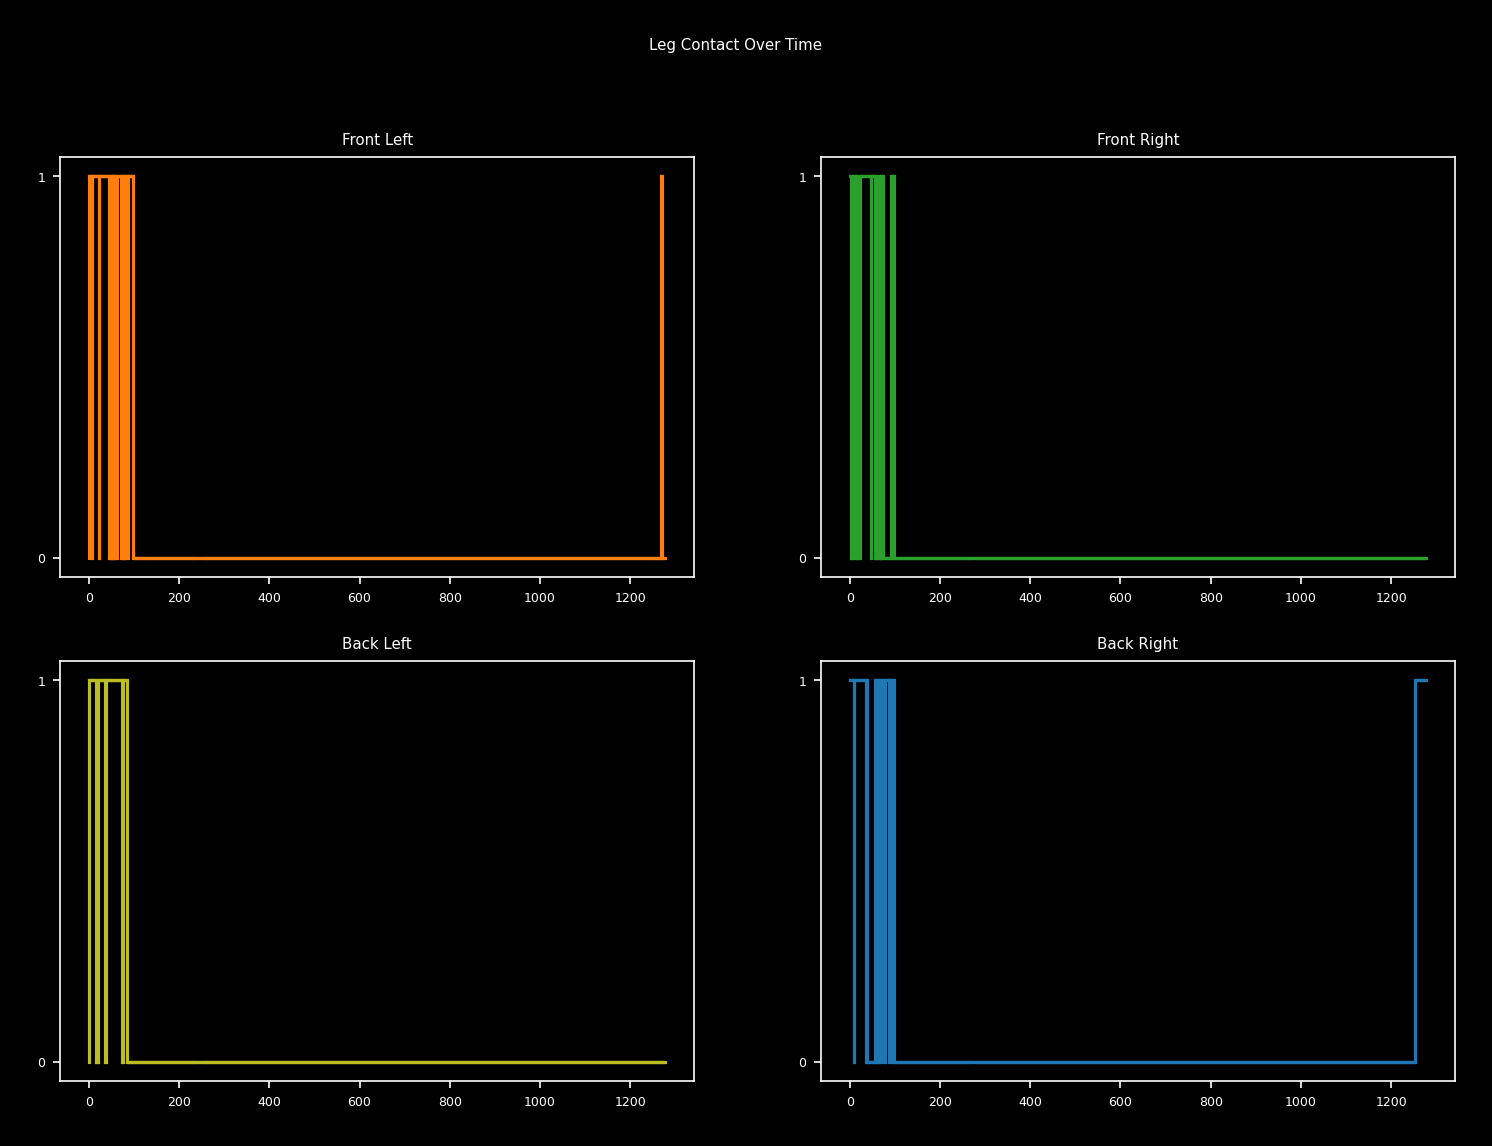
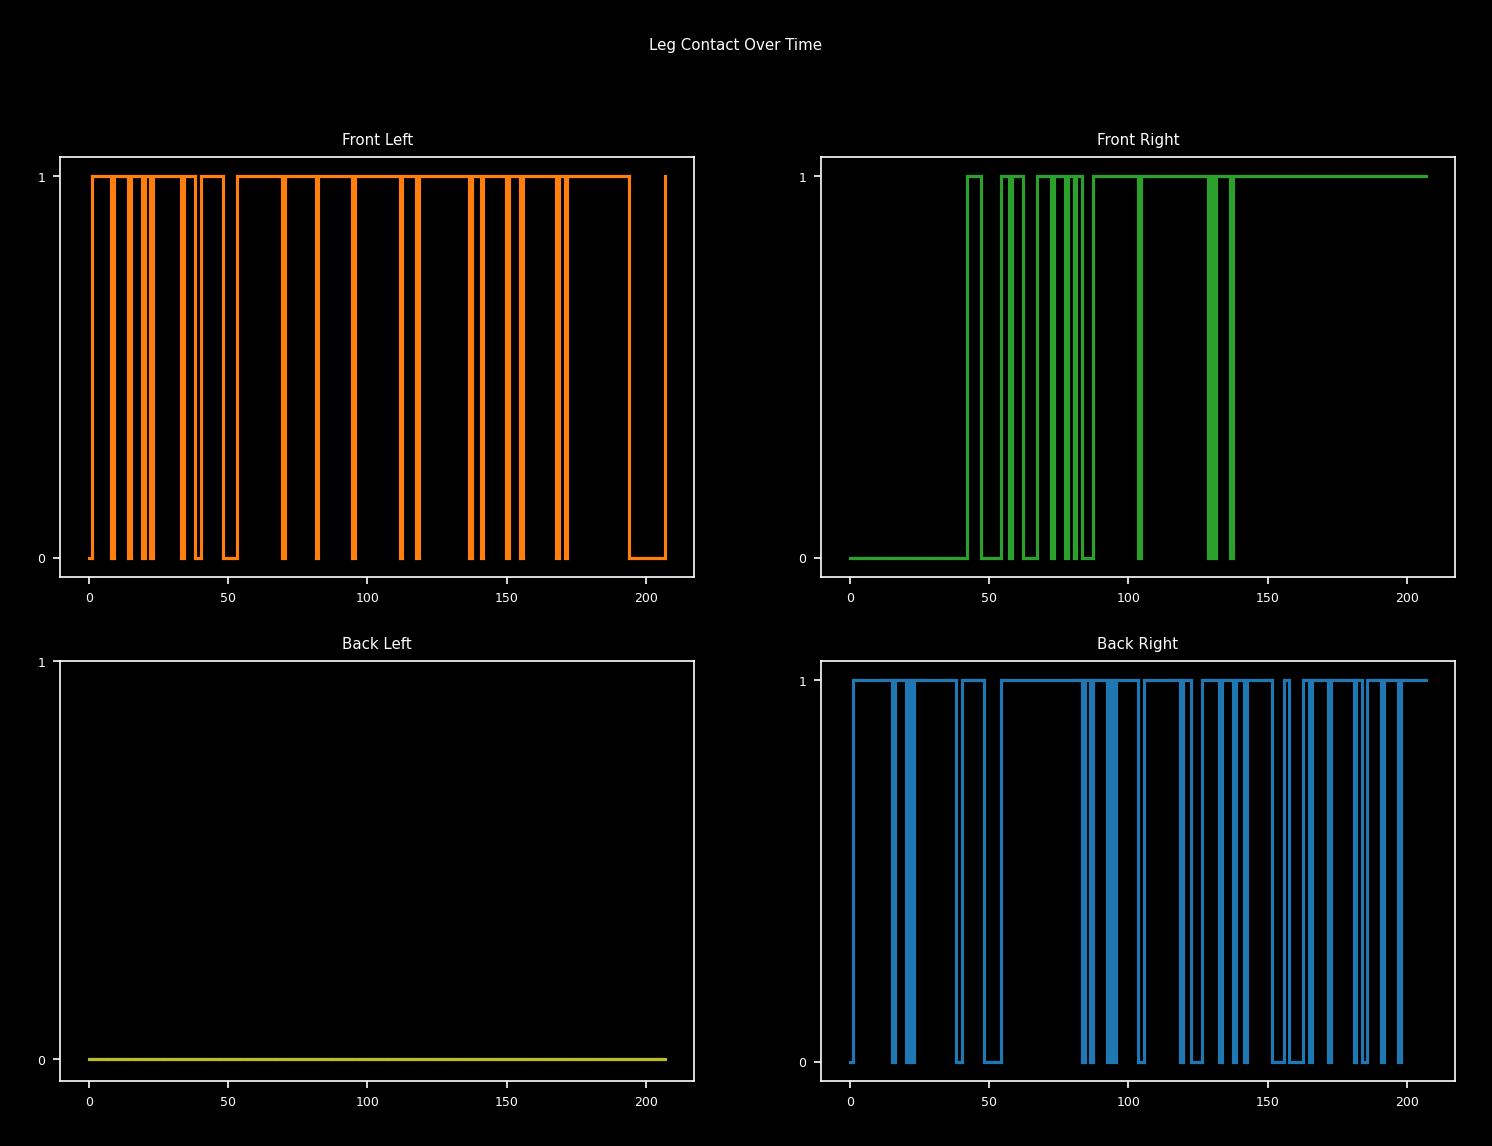
discourage standstill

diff --git a/spider_bot/environments.py b/spider_bot/environments.py
@@ -109,9 +109,9 @@ class SpiderBotSimulator(Env):
 
         #controls = self.filter_controls(controls.copy())
             
-        self.spider.set_joint_velocities(self.spider.outer_joints, controls[:4])
-        self.spider.set_joint_velocities(self.spider.middle_joints, controls[4:8])
-        self.spider.set_joint_velocities(self.spider.inner_joints, controls[8:])
+        # self.spider.set_joint_velocities(self.spider.outer_joints, controls[:4])
+        # self.spider.set_joint_velocities(self.spider.middle_joints, controls[4:8])
+        # self.spider.set_joint_velocities(self.spider.inner_joints, controls[8:])
         
         # update state vars
         self.last_position = self.curr_position
@@ -203,7 +203,7 @@ class SpiderBotSimulator(Env):
         self.V_ay = V_ay
         V_d = -np.abs(V_y - V_ay) if V_ay >= 0.3 else 0
         d_tau = -1 * np.sqrt(np.sum((tau - self.torques)**2))
-        reward = 10 * H + U + V_ay + V_d + d_tau
+        reward = H + U + V_ay + V_d + d_tau
         #ic(H, U, V_ay, V_d, d_tau, reward)
 
         return reward

diff --git a/driver.py b/driver.py
@@ -190,7 +190,7 @@ class Driver:
         dist_traveled = current_pos[1] - initial_pos[1] #np.linalg.norm((current_pos - initial_pos)[:2])
         total_steps = np.sum(steps)
         total_reward = sum(rewards)
-        fitness = total_reward + (100 * dist_traveled * total_steps ** 2)
+        fitness = total_reward + (10 * dist_traveled * total_steps ** 2)
         if verbose:
             ic(dist_traveled, steps, total_reward, fitness)
         return fitness
